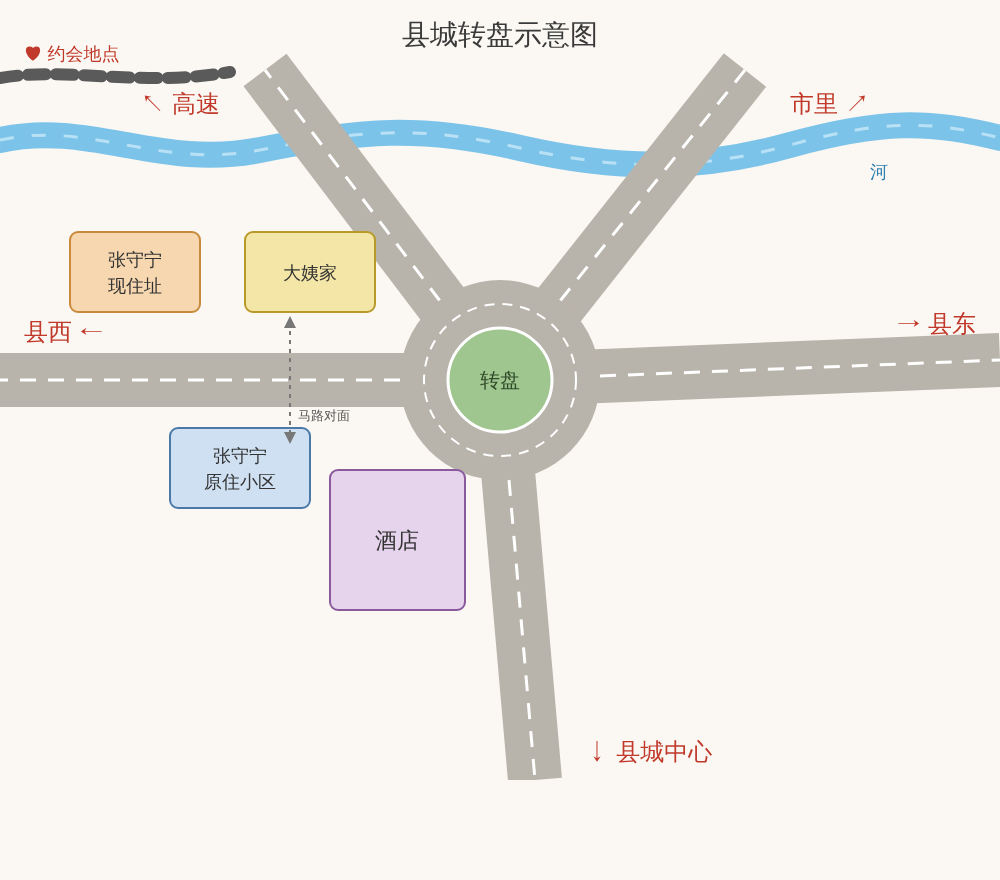
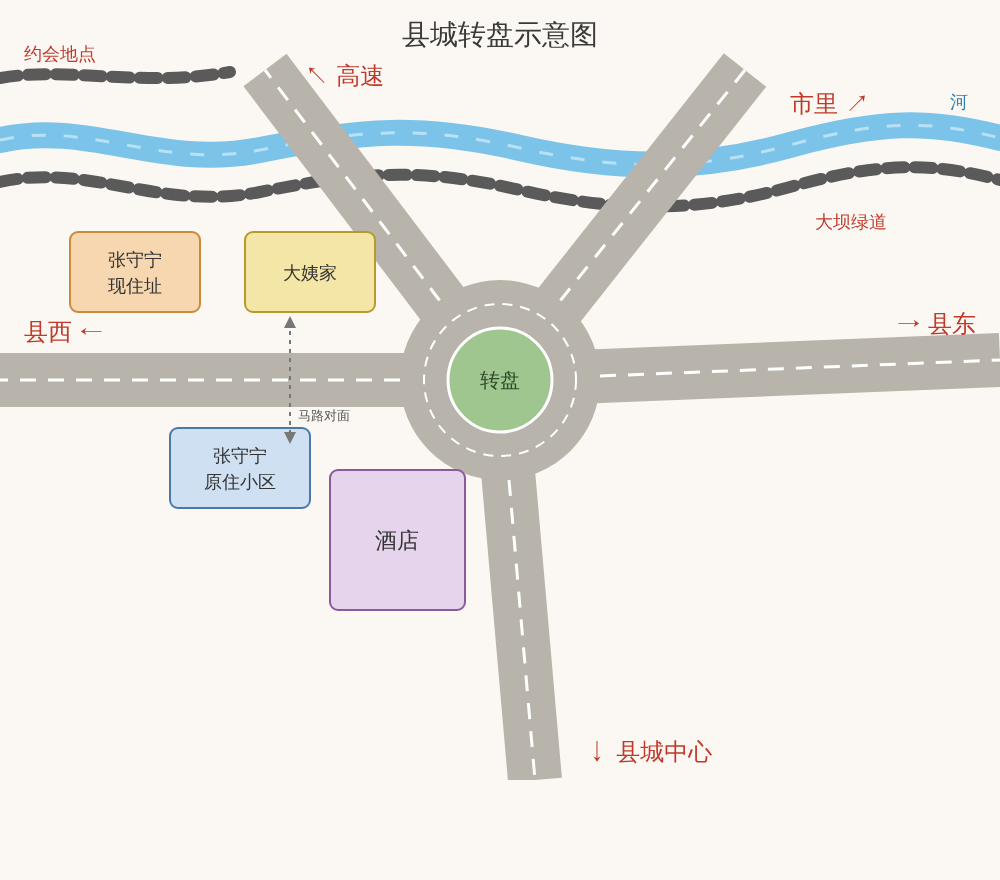
Add dam greenway and move highway label on map
Claude-Session: https://claude.ai/code/session_012E6o3kHnzvgYsTzbkksD3V

diff --git a/shouning_map.html b/shouning_map.html
@@ -8,10 +8,13 @@
 
   <path d="M0 140 C 90 120, 160 170, 260 150 S 420 125, 520 148 S 700 170, 790 145 S 930 120, 1000 138" fill="none" stroke="#7cc3ea" stroke-width="26" stroke-linecap="round"/>
   <path d="M0 140 C 90 120, 160 170, 260 150 S 420 125, 520 148 S 700 170, 790 145 S 930 120, 1000 138" fill="none" stroke="#b9e1f5" stroke-width="3" stroke-dasharray="14 18"/>
-  <text x="870" y="178" font-size="18" fill="#2f7fb0">河</text>
+  <text x="950" y="108" font-size="18" fill="#2f7fb0">河</text>
 
   <path d="M0 78 C 70 66, 140 88, 230 72" fill="none" stroke="#5a5a5a" stroke-width="12" stroke-dasharray="18 10" stroke-linecap="round"/>
-  <text x="24" y="60" font-size="18" fill="#c0392b">♥ 约会地点</text>
+  <text x="24" y="60" font-size="18" fill="#c0392b">约会地点</text>
+
+  <path d="M0 182 C 90 162, 160 212, 260 192 S 420 167, 520 190 S 700 212, 790 187 S 930 162, 1000 180" fill="none" stroke="#5a5a5a" stroke-width="12" stroke-dasharray="18 10" stroke-linecap="round"/>
+  <text x="815" y="228" font-size="18" fill="#c0392b">大坝绿道</text>
 
   <g stroke="#b9b4ab" stroke-width="54" stroke-linecap="butt">
     <line x1="500" y1="380" x2="0" y2="380"/>
@@ -35,7 +38,7 @@
 
   <g font-size="24" font-weight="bold" fill="#c0392b">
     <text x="24" y="340">县西 ←</text>
-    <text x="220" y="112" text-anchor="end">↖ 高速</text>
+    <text x="305" y="84">↖ 高速</text>
     <text x="790" y="112">市里 ↗</text>
     <text x="976" y="332" text-anchor="end">→ 县东</text>
     <text x="585" y="760">↓ 县城中心</text>
